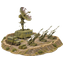
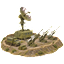
Round portraits let the browser pick the file by device pixels; art notes for the 112 px portraits
Claude-Session: https://claude.ai/code/session_01YXxZpkaNCwU7Zb86jJiW4P

diff --git a/app/src/ui/premium.tsx b/app/src/ui/premium.tsx
@@ -85,10 +85,13 @@ export function PortraitRoundel({ faction, size = 38, color, fallen, className }
       </span>
     );
   }
-  const url = leaderPortraitUrl(faction, size <= 56);
+  // The browser picks by device pixels: the 112 px file where it is enough, the 360 px one on a dense screen or a large roundel.
+  const url = leaderPortraitUrl(faction, true);
+  const large = leaderPortraitUrl(faction);
+  const srcSet = url && large && url !== large ? `${url} 112w, ${large} 360w` : undefined;
   return (
     <span className={`pf-roundel ${fallen ? 'fallen' : ''} ${className ?? ''}`} style={style}>
-      {url && <img src={url} alt="" loading="lazy" draggable={false} />}
+      {url && <img src={url} srcSet={srcSet} sizes={srcSet ? `${size}px` : undefined} alt="" loading="lazy" draggable={false} />}
       <span className="pf-roundel-seal" aria-hidden="true">
         <FactionSeal faction={faction} size={Math.round(size * 0.34)} color="var(--accent)" />
       </span>

diff --git a/app/src/brand/ornaments.tsx b/app/src/brand/ornaments.tsx
@@ -78,8 +78,8 @@ export const RANDOM_PORTRAIT_URL: string | null = Object.values(randomPortrait)[
 
 const smallPortraits = import.meta.glob<string>('../assets/art/people-*-112.jpg', { eager: true, query: '?url', import: 'default' });
 
-/** The paired historical people portrait for a faction: the 360 px JPEG, or the 112 px one for a
- * roundel (56 px and under on screen: a 22 px roundel must not fetch a 70 KB painting). */
+/** The paired historical people portrait for a faction: the 360 px JPEG, or the 112 px one, which a
+ * roundel offers beside it so the browser picks by device pixels (a 22 px roundel must not fetch a 70 KB painting). */
 export function leaderPortraitUrl(faction: string, small = false): string | null {
   return (small ? pick(smallPortraits, faction) : null) ?? pick(portraits, faction);
 }

diff --git a/app/src/assets/art/README.md b/app/src/assets/art/README.md
@@ -16,7 +16,7 @@ Three historical candidates were painted: A (the Old World at dusk), B (the grea
 
 ## Historical people portraits (2026-10-10)
 
-Paired, unnamed adult portraits, one for each of the eleven peoples: nine finished factions plus Egypt and Rome (no faction carries the "Early design" tag now; Egypt's came off 2026-11-24). Every faction has one, with no single-leader fallback (user, 2026-11-01: "every portrait is supposed to be a representative man and woman"); the app uses each faction's 360 px derivative through `leaderPortraitUrl` in `src/brand/ornaments.tsx`, and `src/portraits.test.ts` fails if a playable faction lacks one.
+Paired, unnamed adult portraits, one for each of the eleven peoples: nine finished factions plus Egypt and Rome (no faction carries the "Early design" tag now; Egypt's came off 2026-11-24). Every faction has one, with no single-leader fallback (user, 2026-11-01: "every portrait is supposed to be a representative man and woman"); the app uses each faction's 360 px derivative, and the 112 px one in round portraits where the screen needs no more, through `leaderPortraitUrl` in `src/brand/ornaments.tsx`, and `src/portraits.test.ts` fails if a playable faction lacks one.
 
 | Existing faction ID | Historical people | Portrait era |
 | --- | --- | --- |
@@ -32,7 +32,7 @@ Paired, unnamed adult portraits, one for each of the eleven peoples: nine finish
 | Egypt | Egypt | see `people-egypt.prompt.txt` |
 | Rome | Rome | see `people-rome.prompt.txt` |
 
-For the paired portraits, `people-<faction>.png` (archived outside git, not in the tree) is 1024 × 1024, `people-<faction>-512.png` is 512 × 512, `people-<faction>-360.jpg` is 360 × 360 JPEG quality 88, and `people-<faction>-112.jpg` is 112 × 112 JPEG quality 88, resized from the 512 px file, for the round portraits of 56 px and under (`leaderPortraitUrl(faction, true)`). The `.prompt.txt` file beside each original records its prompt and any final image edit. Japan is not a playable people: its portrait was removed on 2026-11-21 (git history has it), and the older review sheets in `docs/design/historical-factions/` and `docs/design/art-pass-2/` still show it.
+For the paired portraits, `people-<faction>.png` (archived outside git, not in the tree) is 1024 × 1024, `people-<faction>-512.png` is 512 × 512, `people-<faction>-360.jpg` is 360 × 360 JPEG quality 88, and `people-<faction>-112.jpg` is 112 × 112 JPEG quality 88, resized from the 512 px file, for the round portraits (`PortraitRoundel` offers it beside the 360 px file and the browser picks by device pixels). The `.prompt.txt` file beside each original records its prompt and any final image edit. Japan is not a playable people: its portrait was removed on 2026-11-21 (git history has it), and the older review sheets in `docs/design/historical-factions/` and `docs/design/art-pass-2/` still show it.
 
 ## Random choice painting (2026-11-22)
 
@@ -55,8 +55,8 @@ For the paired portraits, `people-<faction>.png` (archived outside git, not in t
 sips -s format jpeg -s formatOptions 88 -Z 1600 title-keyart-c-road-at-dawn.png --out title-keyart-c-road-at-dawn-1600.jpg
 ```
 
-The paired portraits use the same derivative commands (`sips -Z 1024`, `sips -Z 512`, then the 360 px JPEG above) under their `people-<faction>` names.
+The paired portraits use the same derivative commands (`sips -Z 1024`, `sips -Z 512`, then the 360 px JPEG above) under their `people-<faction>` names. The 112 px JPEG is made with Pillow: `Image.open('people-<faction>-512.png').convert('RGB').resize((112, 112), Image.LANCZOS).save('people-<faction>-112.jpg', 'JPEG', quality=88, optimize=True)`.
 
 ## Where the masters live
 
-The full-size `people-<faction>.png` paintings and `title-keyart-c-road-at-dawn.png` are not in the repository. `tools/art/sources-manifest.json` lists each (path, byte size, sha256); `python3 tools/art/fetch-sources.py app/src/assets/art/people-athens.png` (or `--all`) downloads it from the archive named by `LEGATUM_ART_SOURCES_URL` and verifies the hash. The app bundles only the 512 px, 360 px and 1600 px derivatives, so a build and the tests never need a master. A new master is registered with `fetch-sources.py --add <path>` and uploaded to the archive; commit the manifest, not the file.
+The full-size `people-<faction>.png` paintings and `title-keyart-c-road-at-dawn.png` are not in the repository. `tools/art/sources-manifest.json` lists each (path, byte size, sha256); `python3 tools/art/fetch-sources.py app/src/assets/art/people-athens.png` (or `--all`) downloads it from the archive named by `LEGATUM_ART_SOURCES_URL` and verifies the hash. The app bundles only the 512 px, 360 px, 112 px and 1600 px derivatives, so a build and the tests never need a master. A new master is registered with `fetch-sources.py --add <path>` and uploaded to the archive; commit the manifest, not the file.

diff --git a/.claude/skills/legatum-art/SKILL.md b/.claude/skills/legatum-art/SKILL.md
@@ -31,7 +31,8 @@ Don't copy those rules here; extend them there and keep this skill to direction 
 - **Map marks use the icon (art review of PR 212, 2026-11-25).** A mark drawn on the map or a banner for a concept that already has an icon draws that icon through `tintedIcon`, rasterised at size x dpr, never a hand-drawn canvas path; check it at 1x as well as 2x, where hand paths of a few pixels turn to smudges.
 - **Goal marks (art review of the Colonia Victrix and Royal Tomb marks, 2026-11-22; reviewer's rules, accepted by the lead):** a glyph inside a wreath or ring gives the inner subject at least 40% of the grid width, or only the ring survives at 16 px; a mark with a fine and a heavy variant uses the heavy one wherever it is drawn under 20 px, on the map or in the UI; a goal mark is checked for distinctness against its own faction's glyph, because they sit side by side on every banner. Owed once a goal's design is settled: its two-tone reward emblem for the celebration card, and a landmark with construction stages for a goal that "stands" in a city (the Royal Tomb's landmark, stages and engraved reward emblem `rewards/emblem-tomb.svg` are done, 2026-11-25). A faction-goal landmark drawn on the map takes the map grade like any wonder: a graded `landmarks/` copy and graded stages, with the ungraded copy for cards only. A painting that starts warmer than the wonders needs more than the shared `atlas_edit` grade: check its mean saturation against the wonders' map copies (about 0.31 to 0.40 at 256 px) and mute it with `tools/art/goal-landmark-grade.py`.
 - **Paintings** (portraits, key art): the oil technique and parchment-compatible pigments of the current set; no text in the image; prompts saved next to the file.
-- **Historical people portraits (user, 2026-10-10):** depict exactly two unnamed adults, one man and one woman, as representative people rather than named leaders. Both are half-length with faces large, distinct and readable at 128 px; keep both hands natural when visible. Use the established refined oil technique and parchment-compatible pigments, but let period clothing, materials and a recognizable historical setting carry the identity. No fantasy, sci-fi, caricature, stereotype exaggeration, text, watermark or additional people. Each portrait's prompt records its people and era; provide a 1024 px original, 512 px PNG and 360 px JPEG.
+- **Historical people portraits (user, 2026-10-10):** depict exactly two unnamed adults, one man and one woman, as representative people rather than named leaders. Both are half-length with faces large, distinct and readable at 128 px; keep both hands natural when visible. Use the established refined oil technique and parchment-compatible pigments, but let period clothing, materials and a recognizable historical setting carry the identity. No fantasy, sci-fi, caricature, stereotype exaggeration, text, watermark or additional people. Each portrait's prompt records its people and era; provide a 1024 px original, 512 px PNG, 360 px JPEG and 112 px JPEG (Lanczos from the 512, quality 88; round portraits offer it beside the 360 and the browser picks).
+- **Small derivatives are chosen by device pixels (2026-11-26):** a picture shown at N CSS px needs a file of at least 2N px, 3N where phones show it. Ship the size the smallest slot needs with each new art family (a 22 px roundel must not fetch a 360 px painting), and judge a size-saving derivative at 1x, 2x and 3x.
   - **Every faction ships a `people-<faction>` pair portrait in the same change that adds the faction; there is no single-leader fallback (user, 2026-11-01, after India showed Akbar alone).** India's pair is a Mughal court official (diwan) and a noblewoman of his household, c. 1600. The `leader-*` art and the loader fallback are deleted, and `src/portraits.test.ts` fails if a playable faction lacks its `people-<faction>` files.
 - **Celebrations** are the one place for gold glow and particles (see presentation-variants).
 - **Zoom tiers:** every map element defines what it shows at each zoom. Detail (hatching, small figures) at normal zoom; a simple, high-contrast mark when zoomed out. Nothing turns into noise or vanishes without a replacement.

diff --git a/.claude/agents/legatum-perf-supervisor.md b/.claude/agents/legatum-perf-supervisor.md
@@ -19,12 +19,12 @@ the AI, the app, the build and CI, the code and the docs every session loads.
 Before speeding anything up, ask whether it should exist. Order: question, delete, simplify, then
 speed up. A deletion that keeps every test and result identical beats any optimisation.
 
-## Find it before the owner does (user, 2026-11-26)
-A slow first open of the tech tree was reported by hand: its thumbnails trickled in. That is this
-agent's job to find first. What a player sees in the first second of anything (a screen opening, a
+## Find it before a player does
+The tech tree's thumbnails trickled in the first time it opened, and no check had caught it. That is
+this agent's job to find first. What a player sees in the first second of anything (a screen opening, a
 picture appearing, a panel filling in) is performance, the same as frame time. So:
 - Every screen has a row in `tools/perf/first-open.cjs` (`SCREENS`). When a PR on master adds a
-  screen, a dialog or a new family of pictures, add its row the same week (surface sweep).
+  screen, a dialog or a new family of pictures, add its row the same week if the PR did not (surface sweep).
 - Rows marked **unwatched** in `docs/status/perf-surface.md` are a debt, not a note: take at least
   one each week, starting with what a player meets soonest.
 - When something a player could notice turns up, fix it and report it fixed; do not wait to be asked.
